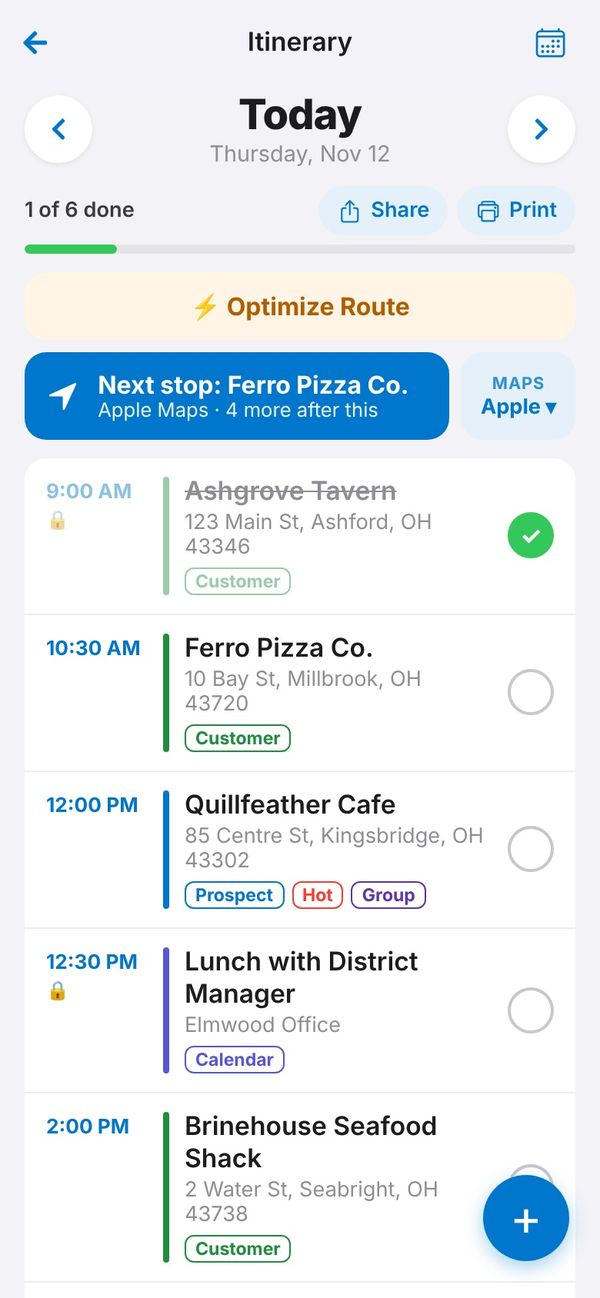
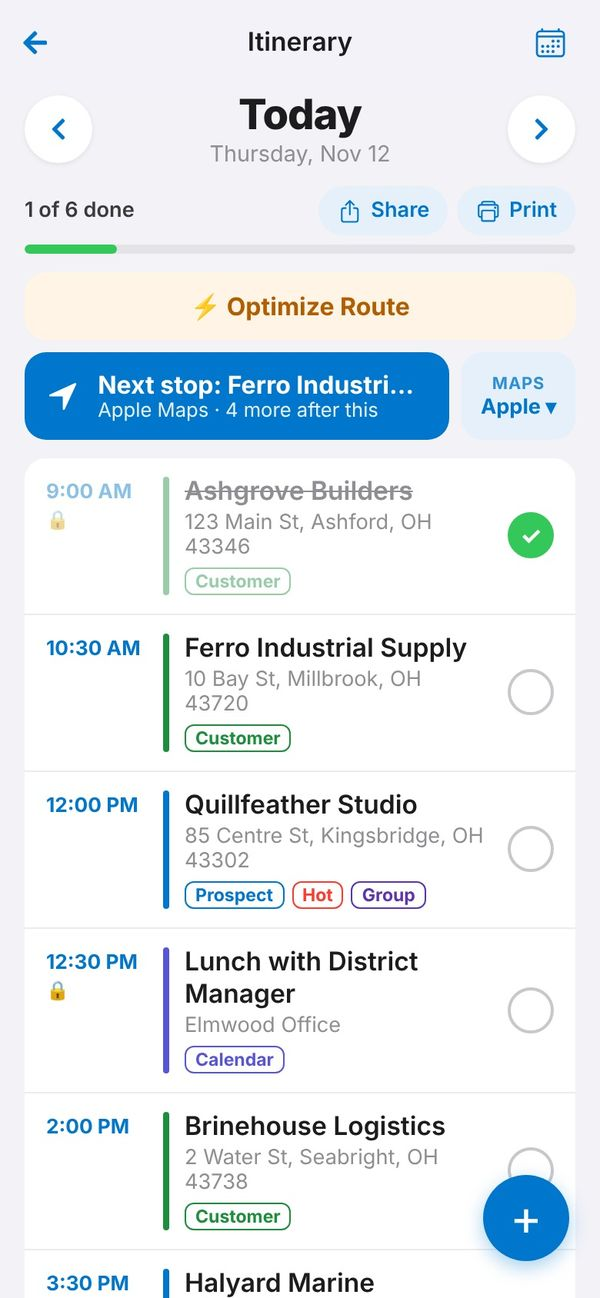
Website: industry-neutral screenshots and wording, Watch The Demo button (review branch)
Claude-Session: https://claude.ai/code/session_01GU8ZYJY1RTiGJHzDRY8oqr

diff --git a/website/features.html b/website/features.html
@@ -39,7 +39,7 @@
         <a href="/#join" class="btn btn-red">Join The Beta</a>
         <button type="button" class="btn btn-line" id="watch-demo">
           <svg width="14" height="14" viewBox="0 0 24 24" fill="currentColor" aria-hidden="true"><polygon points="6 3 21 12 6 21 6 3"></polygon></svg>
-          Watch The 2-Minute Demo
+          Watch The Demo
         </button>
       </div>
       <nav class="fp-jump" aria-label="Feature sections">
@@ -60,9 +60,9 @@
         <p class="fp-sum">Who they are, who to ask for, when you visit and who else they buy from.</p>
         <ul class="fp-list">
           <li><h3>Customers And Prospects In One Place</h3><p>Two lists that work the same way. Search by name, address or account number.</p></li>
-          <li><h3>Every Contact, One Tap Away</h3><p>Call or text the owner, chef or GM, open the address in Maps, or send an email.</p></li>
+          <li><h3>Every Contact, One Tap Away</h3><p>Call or text the owner, buyer or manager, open the address in Maps, or send an email.</p></li>
           <li><h3>Visit Schedules</h3><p>Set the day, the time and how often you go: weekly, every 2 or 3 weeks, monthly or every 2 months.</p></li>
-          <li><h3>Competitor Tracking</h3><p>Note who else they buy from. Pick from common distributors or add your own.</p></li>
+          <li><h3>Competitor Tracking</h3><p>Note who else they buy from. Pick from a list or add your own.</p></li>
           <li><h3>Prospect Stages And Conversion</h3><p>Move a prospect from Cold to Ready To Close. When they sign, convert them to a customer and their notes, contacts and schedule come with them.</p></li>
           <li><h3>Groups For Multiple Locations</h3><p>One business with several locations stays together, whether each spot is a customer or a prospect.</p></li>
         </ul>
@@ -125,7 +125,7 @@
     <div class="wrap fp-grid">
       <div class="fp-text">
         <span class="eyebrow">Notes &amp; To-Dos</span>
-        <h2>Promises Made At The Counter Don't Get Lost.</h2>
+        <h2>Promises Made On A Visit Don't Get Lost.</h2>
         <p class="fp-sum">Every conversation lands on the right account, and every follow-up lands on your list.</p>
         <ul class="fp-list">
           <li><h3>Notes On Every Account</h3><p>Label a note Visit, Sample, Follow-up, Contacted or Background. Use the iPhone keyboard mic to talk instead of type.</p></li>
@@ -167,13 +167,13 @@
   <section class="section fp-end">
     <div class="wrap">
       <div class="band">
-        <h2>See It In Two Minutes.</h2>
+        <h2>See It In Action.</h2>
         <p>Then join the beta. It's free while we're in beta.</p>
         <div class="ctas">
           <a href="/#join" class="btn btn-red">Join The Beta</a>
           <button type="button" class="btn btn-line" id="watch-demo-2">
             <svg width="14" height="14" viewBox="0 0 24 24" fill="currentColor" aria-hidden="true"><polygon points="6 3 21 12 6 21 6 3"></polygon></svg>
-            Watch The 2-Minute Demo
+            Watch The Demo
           </button>
         </div>
         <a href="/" class="fp-back fp-back-end">&larr; Back To Home</a>
@@ -184,7 +184,7 @@
 </main>
 
 <div class="video-back" id="video-back" hidden>
-  <div class="video-box" role="dialog" aria-modal="true" aria-label="Crumb 2-minute demo">
+  <div class="video-box" role="dialog" aria-modal="true" aria-label="Crumb demo">
     <button type="button" class="video-close" id="video-close" aria-label="Close">&times;</button>
     <video id="demo-video" src="/crumb-demo.mp4" poster="/crumb-demo.jpg" controls playsinline preload="none"></video>
   </div>

diff --git a/website/index.html b/website/index.html
@@ -40,7 +40,7 @@
         <a href="#join" class="btn btn-red">Join The Beta</a>
         <button type="button" class="btn btn-line" id="watch-demo">
           <svg width="14" height="14" viewBox="0 0 24 24" fill="currentColor" aria-hidden="true"><polygon points="6 3 21 12 6 21 6 3"></polygon></svg>
-          Watch The 2-Minute Demo
+          Watch The Demo
         </button>
       </div>
       <div class="stage" aria-hidden="true">
@@ -118,7 +118,7 @@
 </main>
 
 <div class="video-back" id="video-back" hidden>
-  <div class="video-box" role="dialog" aria-modal="true" aria-label="Crumb 2-minute demo">
+  <div class="video-box" role="dialog" aria-modal="true" aria-label="Crumb demo">
     <button type="button" class="video-close" id="video-close" aria-label="Close">&times;</button>
     <video id="demo-video" src="/crumb-demo.mp4" poster="/crumb-demo.jpg" controls playsinline preload="none"></video>
   </div>
